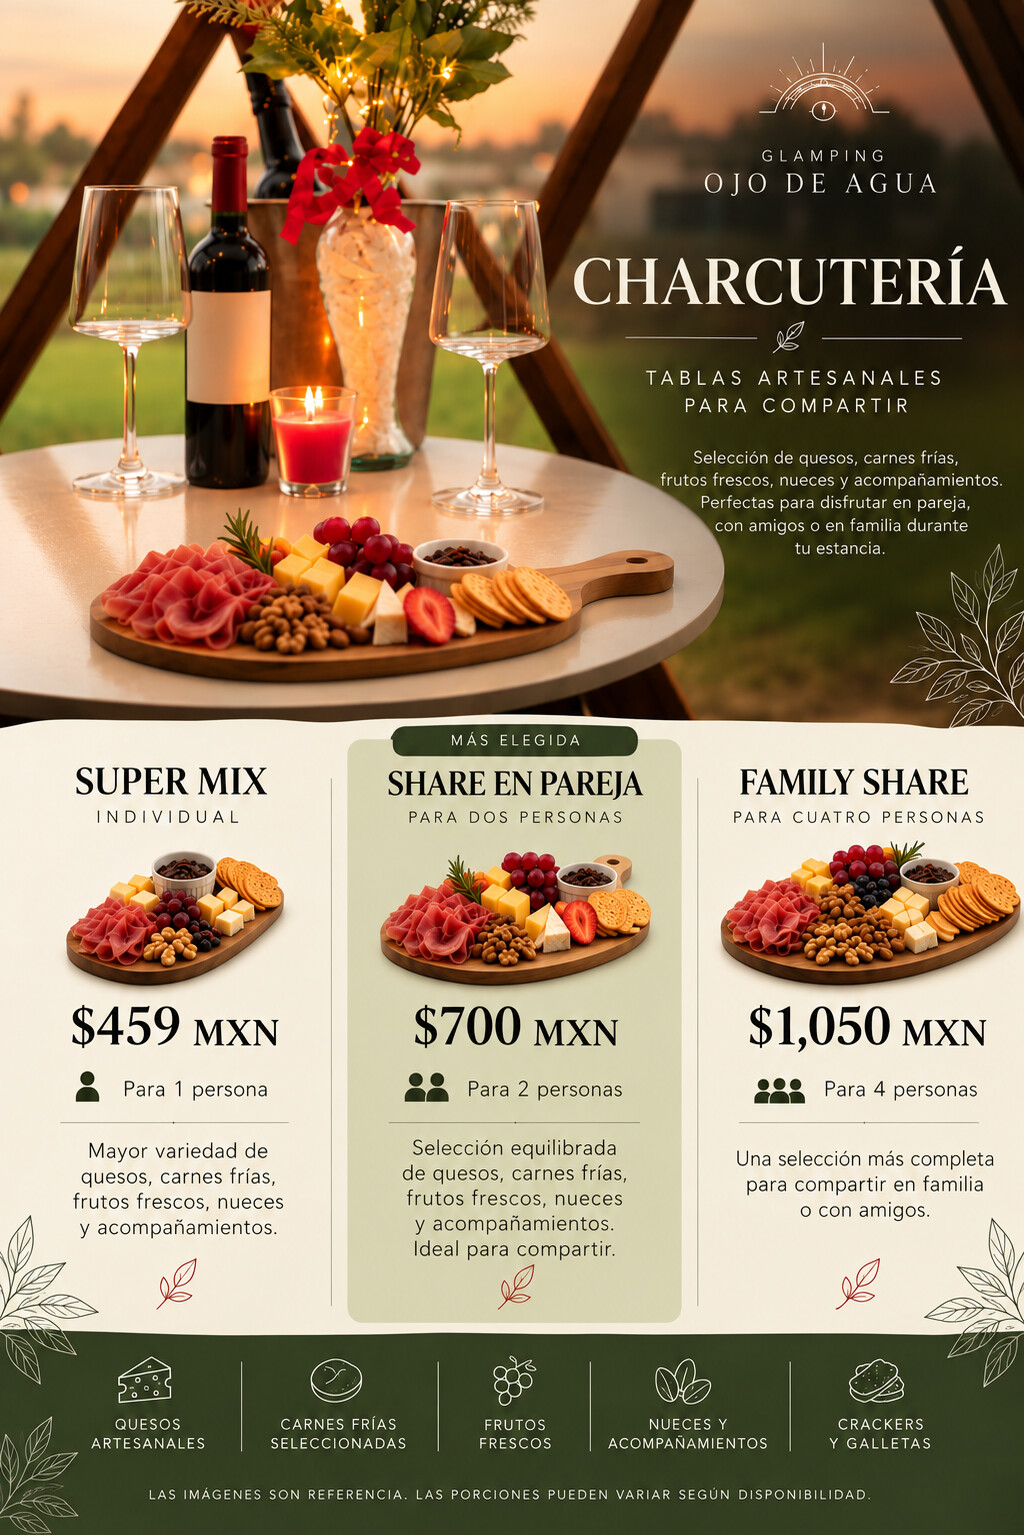
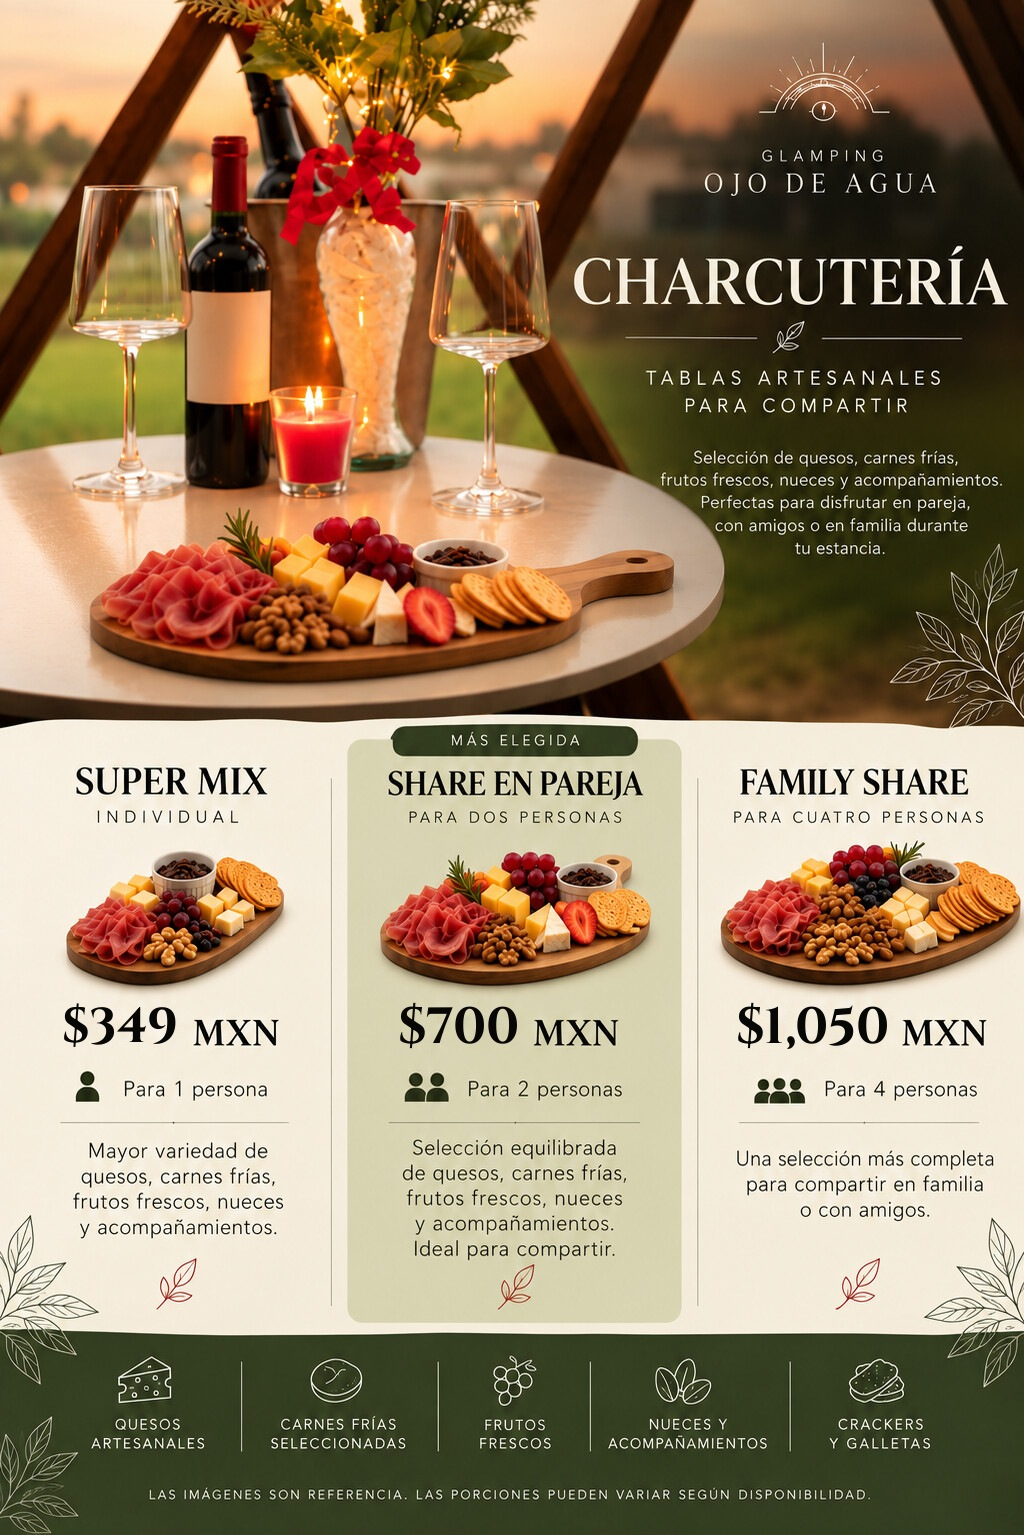
Precios: carteles de charcutería y románticos con precios vigentes (349 / 950-1,850-2,750) (#11)
Claude-Session: https://claude.ai/code/session_01C2r6Fmx73BCq7iuYuF3BsQ

Changed region(s): [[0.7188, 0.643, 0.875, 0.7042], [0.375, 0.643, 0.5312, 0.7042], [0.0625, 0.643, 0.1875, 0.7042]]

diff --git a/experiencias.html b/experiencias.html
@@ -413,7 +413,7 @@
         <div class="package-body">
           <h3>Charcutería para compartir</h3>
           <p>Tablas con quesos, carnes frías, fruta fresca y acompañamientos. De individual a familiar.</p>
-          <div class="package-price">Desde $459 <small>MXN</small></div>
+          <div class="package-price">Desde $349 <small>MXN</small></div>
           <a class="btn btn-dark track-wa" data-location="paquete_charcuteria" href="https://wa.me/525653967952?text=Hola%2C%20me%20interesa%20una%20tabla%20de%20charcuter%C3%ADa%20en%20Ojo%20de%20Agua." target="_blank" rel="noopener">Preguntar por este paquete</a>
         </div>
       </article>
@@ -423,7 +423,7 @@
         <div class="package-body">
           <h3>Experiencias románticas</h3>
           <p>Nosotros preparamos cada detalle —decoración, flores, brindis— para que solo lleguen y disfruten.</p>
-          <div class="package-price">Desde $700 <small>MXN</small></div>
+          <div class="package-price">Desde $950 <small>MXN</small></div>
           <a class="btn btn-dark track-wa" data-location="paquete_romantico" href="https://wa.me/525653967952?text=Hola%2C%20me%20interesa%20armar%20una%20experiencia%20rom%C3%A1ntica%20en%20Ojo%20de%20Agua." target="_blank" rel="noopener">Preguntar por este paquete</a>
         </div>
       </article>

diff --git a/galeria.html b/galeria.html
@@ -165,13 +165,13 @@ footer{background:#090a08;color:white;padding:32px 5%}
         <span class="photo-label">Experiencia al Grill</span>
       </button>
 
-      <button class="photo tall" data-cat="paquetes" data-i="8" aria-label="Abrir cartel: Charcutería, desde $459 MXN">
-        <img loading="lazy" src="images/paquete-charcuteria.jpg" alt="Cartel del paquete de Charcutería, desde $459 MXN">
+      <button class="photo tall" data-cat="paquetes" data-i="8" aria-label="Abrir cartel: Charcutería, desde $349 MXN">
+        <img loading="lazy" src="images/paquete-charcuteria.jpg" alt="Cartel del paquete de Charcutería, desde $349 MXN">
         <span class="photo-label">Charcutería</span>
       </button>
 
-      <button class="photo wide" data-cat="paquetes" data-i="9" aria-label="Abrir cartel: Experiencias románticas, desde $700 MXN">
-        <img loading="lazy" src="images/paquete-romantico.jpg" alt="Cartel de Experiencias románticas, desde $700 MXN">
+      <button class="photo wide" data-cat="paquetes" data-i="9" aria-label="Abrir cartel: Experiencias románticas, desde $950 MXN">
+        <img loading="lazy" src="images/paquete-romantico.jpg" alt="Cartel de Experiencias románticas, desde $950 MXN">
         <span class="photo-label">Experiencias románticas</span>
       </button>
 
